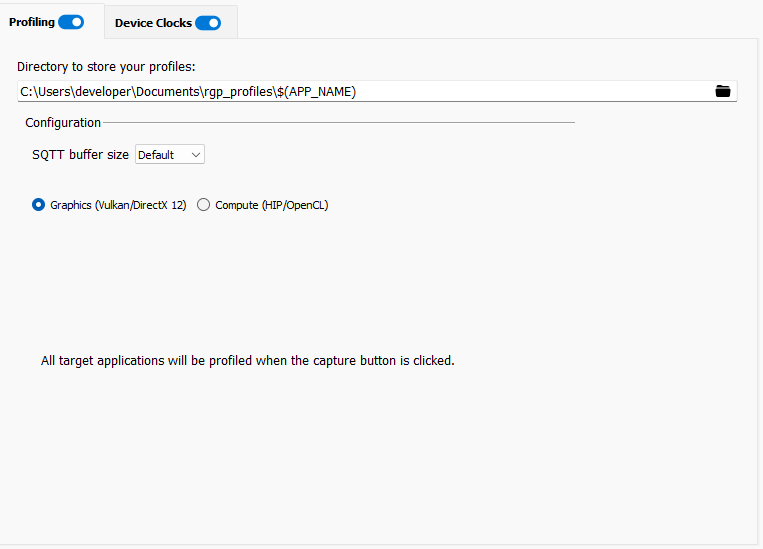
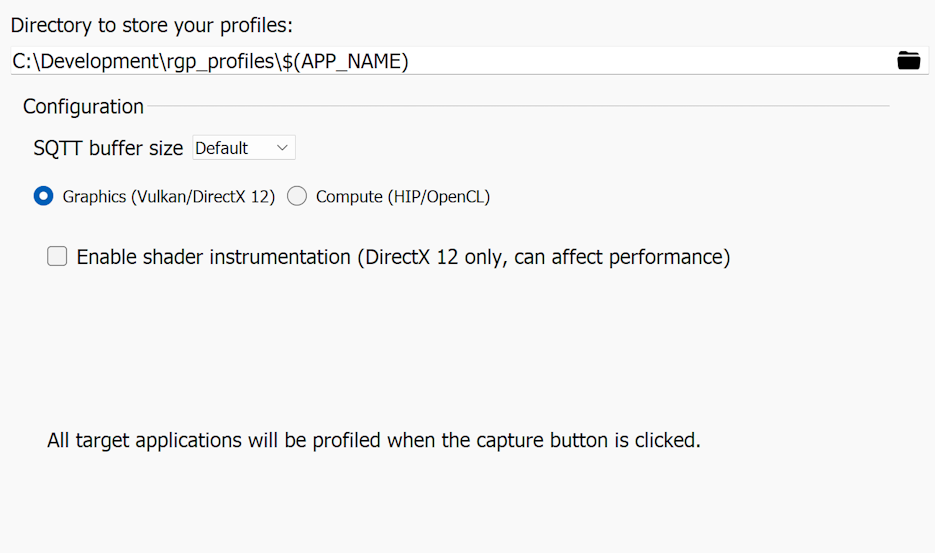
Update documentation for 2.12 release (#46)

diff --git a/docs/source/conf.py b/docs/source/conf.py
@@ -54,9 +54,9 @@ author = u'AMD Developer Tools'
 # built documents.
 #
 # The short X.Y version.
-version = u'2.11.0'
+version = u'2.12.0'
 # The full version, including alpha/beta/rc tags.
-release = u'2.11.0'
+release = u'2.12.0'
 
 # The language for content autogenerated by Sphinx. Refer to documentation
 # for a list of supported languages.

diff --git a/docs/source/index.rst b/docs/source/index.rst
@@ -258,6 +258,9 @@ The following are the configurable options for profiling
    * If a profile has missing data, the SQTT buffer size can be increased to potentially remedy the issue
    * If an application experiences graphical corruption, decreasing the SQTT buffer size can potentially remedy the issue
 
+- **Enable shader instrumentation**:
+   * Enabling this setting generates data that allows RGP to track thread divergence for different shaders contained in a ray tracing pipeline. This is currently enabled for DirectX 12 only. Enabling this option causes minor changes into the generated shader code and may add extra overhead to the runtime of a shader.
+
 - **Vulkan/DirectX12**:
    * Displays information about the active trigger mode for profile capture
 
